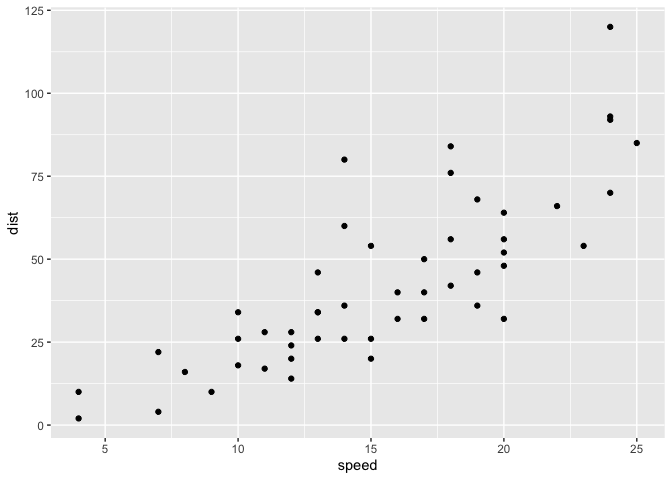
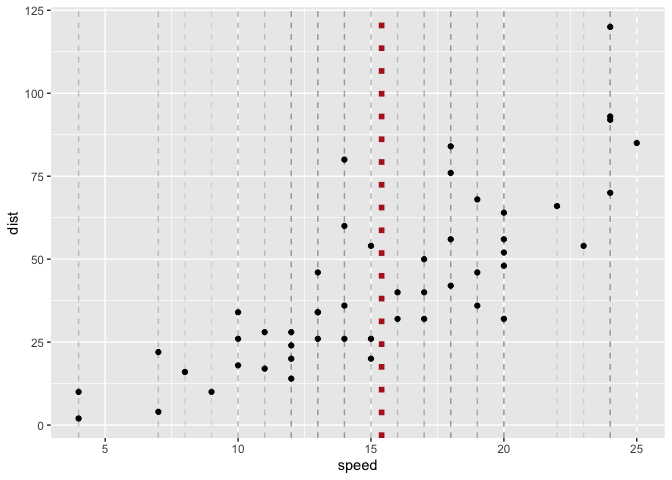
.Rmd but with three colons

diff --git a/README.md b/README.md
@@ -26,12 +26,19 @@ This is a basic example which shows you how to solve a common problem:
 library(ggplot2)
 #> Warning: package 'ggplot2' was built under R version 3.6.2
 library(ggxmean)
+
 ## basic example code
 cars %>% 
   ggplot() +
   aes(x = speed,
       y = dist) +
-  geom_point() 
+  geom_point() + 
+  ggxmean:::geom_xvlines(alpha = .1,
+               linetype = "dashed") +
+  ggxmean:::geom_xmean(color = "firebrick",
+             size = 2,
+             linetype = "dotted")
+#> Warning: Duplicated aesthetics after name standardisation: y
 ```
 
 <img src="man/figures/README-example-1.png" width="100%" />
